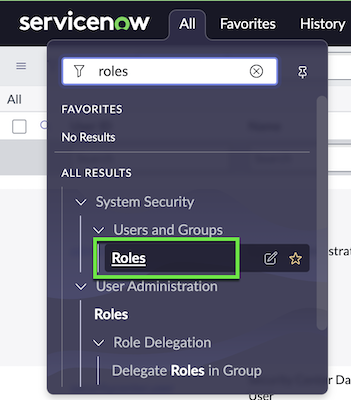
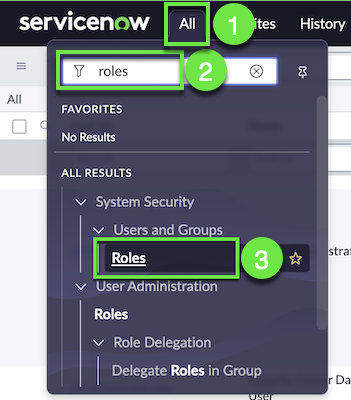
Restrict access part 1

Changed region(s): [[0.1425, 0.0, 0.7407, 0.24], [0.6838, 0.57, 0.8262, 0.72]]

diff --git a/labs/telework-201_vancouver/exercise-02-Security/1-Restrict-access-from-Admins.md b/labs/telework-201_vancouver/exercise-02-Security/1-Restrict-access-from-Admins.md
@@ -9,7 +9,13 @@ We will lock down the app so hard that even other admins won't be able to see th
 
 ## Update the admin role for our app 
 
-1. Search for "roles" and click on: System Security > Users and Groups > Roles or User Administration > Roles.
+1. Go to the roles list
+
+    1. Click the **All** menu
+    
+    2. Search for "roles" 
+    
+    3. click on: System Security > Users and Groups > Roles or User Administration > Roles.
 
 ![](./images/01_Search-for-roles.png)
 
@@ -25,6 +31,52 @@ We will lock down the app so hard that even other admins won't be able to see th
     4. Open the default admin record
     
     ![](./images/02_Open-the-admin-role.png)
+
+3. Configure the form to add the **Application Administrator** field.
+
+    1. Right-click in the header to show the record menu
+
+    2. Select Configure > **Form layout**
+
+    ![](./images/03_Configure-form-layout.png)
+
+    3. Add the field **Application Administrator** to the role form
+
+        1. Click **Edit this section in Global**
+
+        2. Select the field **Application Administrator** 
+
+        3. Click on the **[ › ]** button to add the field to the list of selected fields
+
+        4. Click <span className="button-purple">Save</span> at the bottom. 
+
+    ![](./images/04_Add-App-Admin.png)
+
+
+4. Set the Telework Admin role to an Application Administrator
+
+    1. In the role record, select the Application Administrator check box,
+    
+    2. then Click Update.
+
+    ![](./images/05_Check-App-Admin.png)
+
+
+So far we have developed logged in as the admin user. We'll create a user for our application, add this user to the "App Engine Studio Users" group and then add the role we just created for the Telework app.
+
+
+5. Create a new user 
+
+    1. Click the **All** menu
+    
+    2. Search for "Users"
+
+    3. Click on **Users**
+
+    ![](./images/06-Create-new-user-1.png)
+
+    
+
 
 
 
